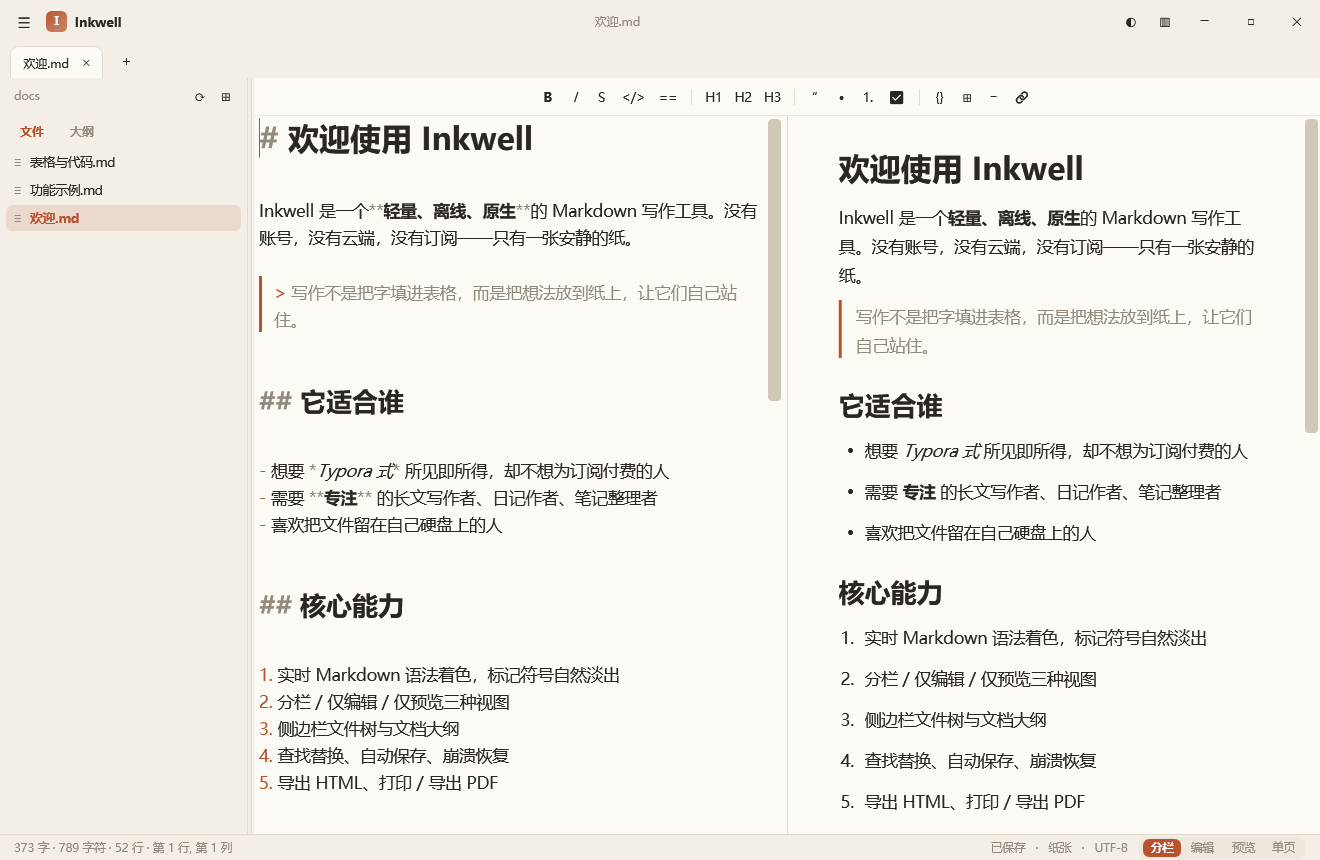
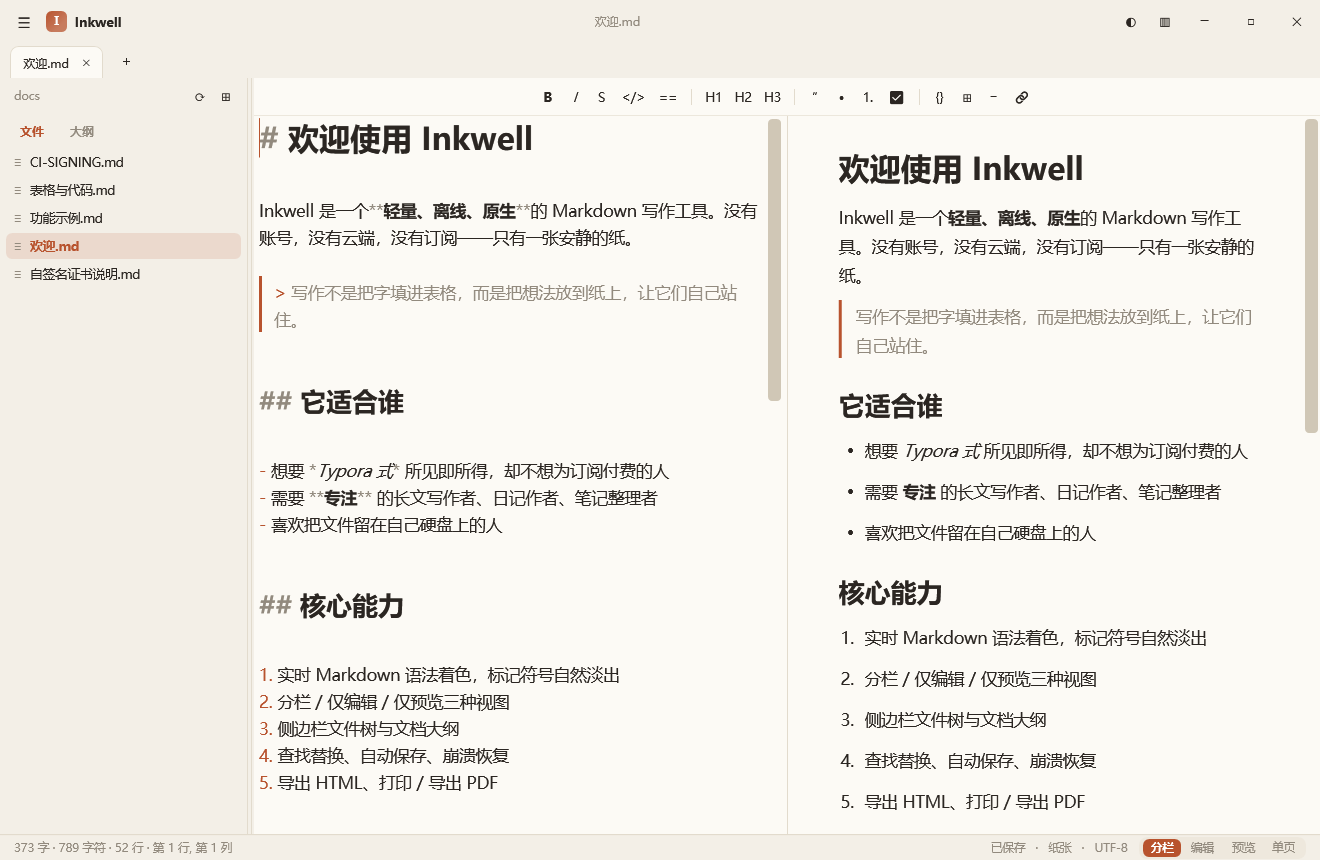
更新库环境

Changed region(s): [[0.0, 0.1814, 0.1864, 0.3326]]

diff --git a/src/App/App.cs b/src/App/App.cs
@@ -223,3 +223,4 @@ public sealed class App : Application
         Shutdown();
     }
 }
+

diff --git a/docs/CI-SIGNING.md b/docs/CI-SIGNING.md
@@ -1,0 +1,79 @@
+# 自动化构建与代码签名
+
+仓库包含两个 GitHub Actions 工作流：
+
+| 工作流 | 触发 | 作用 |
+| --- | --- | --- |
+| `.github/workflows/build.yml` | `push`、`pull_request`、手动 | 用 MSBuild 构建 `Release`，跑 13 组解析器测试，上传未签名 zip |
+| `.github/workflows/release.yml` | `v*` 标签、手动 | 构建 + 测试 → 提交 SignPath 签名 → 校验签名 → 打包 zip → 创建 GitHub Release |
+
+签名使用 [SignPath](https://signpath.io/) 的 Open Source Code Signing（对公开仓库免费，需要申请并通过审核）。它签发的是**受信任的 CA 证书**，因此签名后的 exe 在 Windows 上会显示真实的发布者，而不是“未知发布者”。
+
+> 私钥由 SignPath 的 HSM 保管，仓库和 GitHub Secrets 里都不需要、也不应该出现 `.pfx` 或私钥。
+
+## 一、在 SignPath 创建项目
+
+1. 用公开仓库申请 SignPath Foundation（<https://signpath.org/>），安装 [SignPath GitHub App](https://github.com/apps/signpath) 并授权本仓库。
+2. 在 SignPath 中创建项目，slug 设为 `inkwell`（或自定义，后面用变量覆盖）。
+3. 创建 **Artifact Configuration**，slug 设为 `inkwell-exe`，内容使用仓库里的
+   [`.signpath/artifact-configuration.xml`](../.signpath/artifact-configuration.xml)。
+   该配置的根节点是单个 `<pe-file>`，与工作流上传的裸 PE 文件对应。
+4. 创建 **Signing Policy**，slug 设为 `release-signing`。建议只允许 `refs/tags/v*` 的构建，并把审批设为手动/自动按你的需要。
+5. 创建一个有提交签名请求权限的 **API Token**；同时记下 **Organization ID**。
+
+## 二、配置 GitHub
+
+在仓库 `Settings → Secrets and variables → Actions` 中添加：
+
+**Secrets（必填）**
+
+- `SIGNPATH_API_TOKEN`：上一步的 API Token
+- `SIGNPATH_ORGANIZATION_ID`：SignPath Organization ID
+
+**Variables（可选，覆盖默认 slug）**
+
+- `SIGNPATH_PROJECT_SLUG`，默认 `inkwell`
+- `SIGNPATH_SIGNING_POLICY_SLUG`，默认 `release-signing`
+- `SIGNPATH_ARTIFACT_CONFIGURATION_SLUG`，默认 `inkwell-exe`
+
+同时确认 `Settings → Actions → General → Workflow permissions` 允许 workflow 写 Release（工作流已声明 `contents: write`，若仓库策略更严格需要在仓库设置里放开）。
+
+## 三、发版
+
+1. 修改 `src/App/App.cs` 里的 `Version`。
+2. 提交并打与版本一致的标签：
+
+   ```powershell
+   git tag v1.0.7
+   git push origin v1.0.7
+   ```
+
+3. `release.yml` 会：
+   - 用 `msbuild Inkwell.sln /p:Configuration=Release` 构建；
+   - 运行 `build\vs-tests\Tests.exe`；
+   - 校验标签版本与 `App.Version` 一致；
+   - 把未签名的 `Inkwell.exe` 以 `archive: false` 上传为 GitHub 制品；
+   - 调用 `signpath/github-action-submit-signing-request@v3` 提交签名，等待完成；
+   - 用签名后的 exe 替换，校验 `Get-AuthenticodeSignature` 为 `Valid`；
+   - 打包 `Inkwell-<version>.zip` + `sha256.txt`，创建 GitHub Release。
+
+也可以在 Actions 页面手动运行 `Release`。手动运行时可以取消 `sign` 输入来跳过签名（只适合测试，正式发布请保持勾选）。
+
+## 四、工作流里的关键约定
+
+- **单文件制品**：`actions/upload-artifact@v4` 使用 `archive: false`，SignPath 收到的是裸 PE 文件；对应签名步骤使用 `skip-decompress: true`，制品配置根节点是 `<pe-file>`。
+- **GitHub 托管 runner**：SignPath 的 OSS 策略要求参与签名的所有 job 都跑在 GitHub 托管的 runner 上，所以工作流固定使用 `windows-2022`，不要改成 self-hosted。
+- **版本一致性**：标签 `v1.0.7` 必须与 `App.Version` 完全一致，否则工作流会直接失败，避免发布版本号与程序内版本号不符。
+- **签名校验**：只有 `Get-AuthenticodeSignature` 返回 `Valid` 才会继续打包；如果返回 `UnknownError`/`NotTrusted`，说明证书链或时间戳有问题，工作流会失败。
+
+## 五、常见问题
+
+| 现象 | 原因 / 处理 |
+| --- | --- |
+| `github-artifact-id` 为空 | 确认使用 `actions/upload-artifact@v4` 或更高，并且上传步骤在签名步骤之前 |
+| 签名步骤被跳过 | 缺少 `SIGNPATH_API_TOKEN` / `SIGNPATH_ORGANIZATION_ID`，或手动运行时 `sign` 未勾选 |
+| SignPath 返回 artifact 不匹配 | 检查制品配置根节点是否为 `<pe-file>`，以及上传的是否是单个 exe |
+| 标签发布报缺少 secrets | 这是有意的：正式标签发布必须配置 SignPath，避免误发未签名版本 |
+| 签名后仍被 SmartScreen 拦截 | 新证书需要积累信誉；EV 证书可立即建立信誉，OV/OSS 证书通常需要一段时间的下载量。签名本身已能让“发布者”显示为 SignPath 的证书主体 |
+
+更多参考：[SignPath GitHub 集成文档](https://docs.signpath.io/trusted-build-systems/github)、[artifact configuration 示例](https://docs.signpath.io/artifact-configuration/examples)。

diff --git a/README.md b/README.md
@@ -181,9 +181,18 @@ Get-ChildItem Cert:\CurrentUser\Root, Cert:\CurrentUser\TrustedPublisher |
 - 购买 OV/EV 代码签名证书（公开分发的正解）；
 - 接受每次新版本首次运行时点「更多信息 → 仍要运行」，或由用户自行在系统里关闭 SmartScreen 的应用检查（不推荐）。
 
+## 自动化构建与签名
+
+仓库带两个 GitHub Actions 工作流：
+
+- `.github/workflows/build.yml`：`push` / `pull_request` 时用 MSBuild 构建 Release、运行解析器测试，并上传未签名 zip。
+- `.github/workflows/release.yml`：推送 `v*` 标签时构建、测试、调用 [SignPath](https://signpath.io/) 做 CA 代码签名、校验签名、生成 zip/`sha256.txt` 并创建 GitHub Release。
+
+签名配置、Secrets 与发版步骤见 **[docs/CI-SIGNING.md](docs/CI-SIGNING.md)**。签名后的 exe 会显示真实发布者；在 SignPath 审核通过前，仍可使用上一节的自签名证书。
+
 ## 更新记录
 
-- **1.0.6**：单页模式重新隐藏代码围栏，只显示带内边距的格式化代码块（光标移到围栏行才会显示）；语法高亮扩展为关键字 / 类型 / 函数 / 字符串 / 数字 / 注释 / 标签 / 属性 / 运算符多色方案，新增 Go、Rust、TOML、Dockerfile 等语言。同时提供自签名构建（`Inkwell-selfsigned.cer`），仅用于本机/内部信任。
+- **1.0.6**：单页模式重新隐藏代码围栏，只显示带内边距的格式化代码块（光标移到围栏行才会显示）；语法高亮扩展为关键字 / 类型 / 函数 / 字符串 / 数字 / 注释 / 标签 / 属性 / 运算符多色方案，新增 Go、Rust、TOML、Dockerfile 等语言。同时提供自签名构建（`Inkwell-selfsigned.cer`），仅用于本机/内部信任。仓库新增 GitHub Actions 构建与 SignPath 代码签名流程。
 - **1.0.5**：状态栏右下角新增分栏 / 编辑 / 预览 / 单页切换按钮；预览改为输入时持续刷新；单页模式下代码围栏（```）保持可见，代码块显示更完整。
 - **1.0.4**：新增单页（所见即所得）模式；修复 `Ctrl+X` 剪切失效与整篇剪切时的崩溃；重写输入路径的脏检查、字数统计与撤销快照，逐键开销降到亚毫秒级；中文输入法组词期间不再触发重排；预览渲染按文档大小自适应延迟。
 - **1.0.3**：修复预览中斜体不生效（`*斜体*` 被当作普通文本）。
